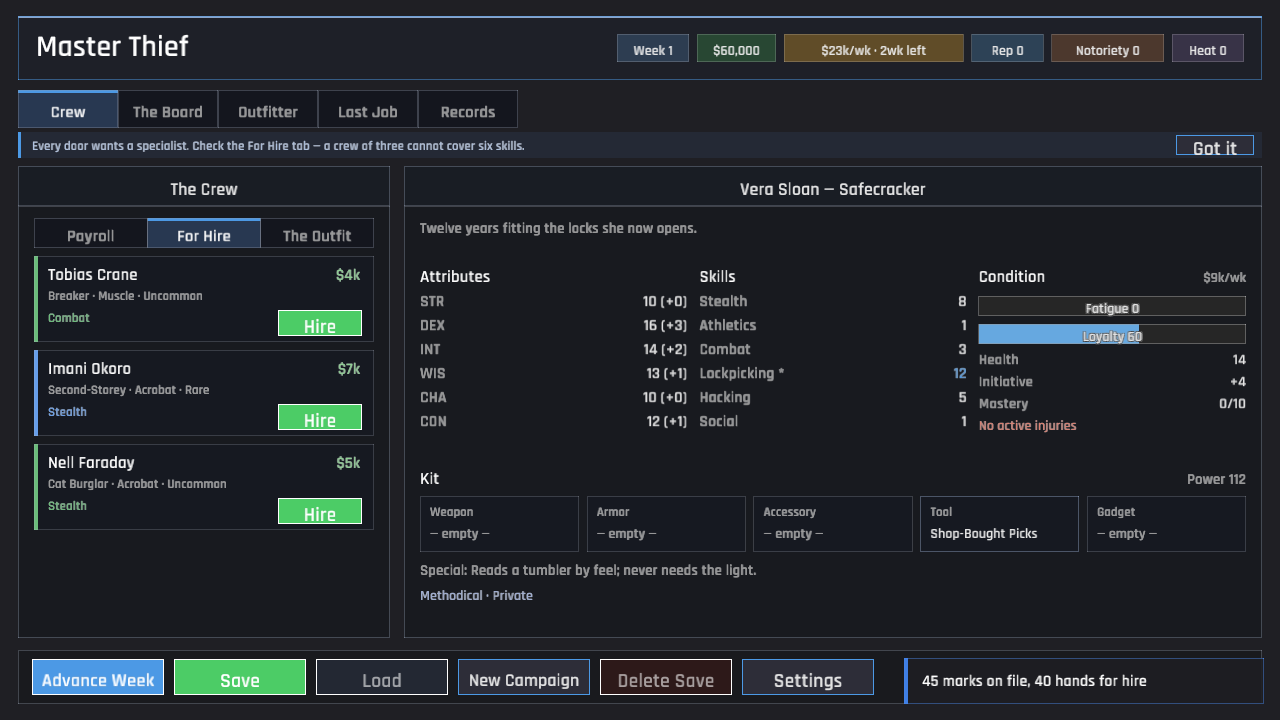
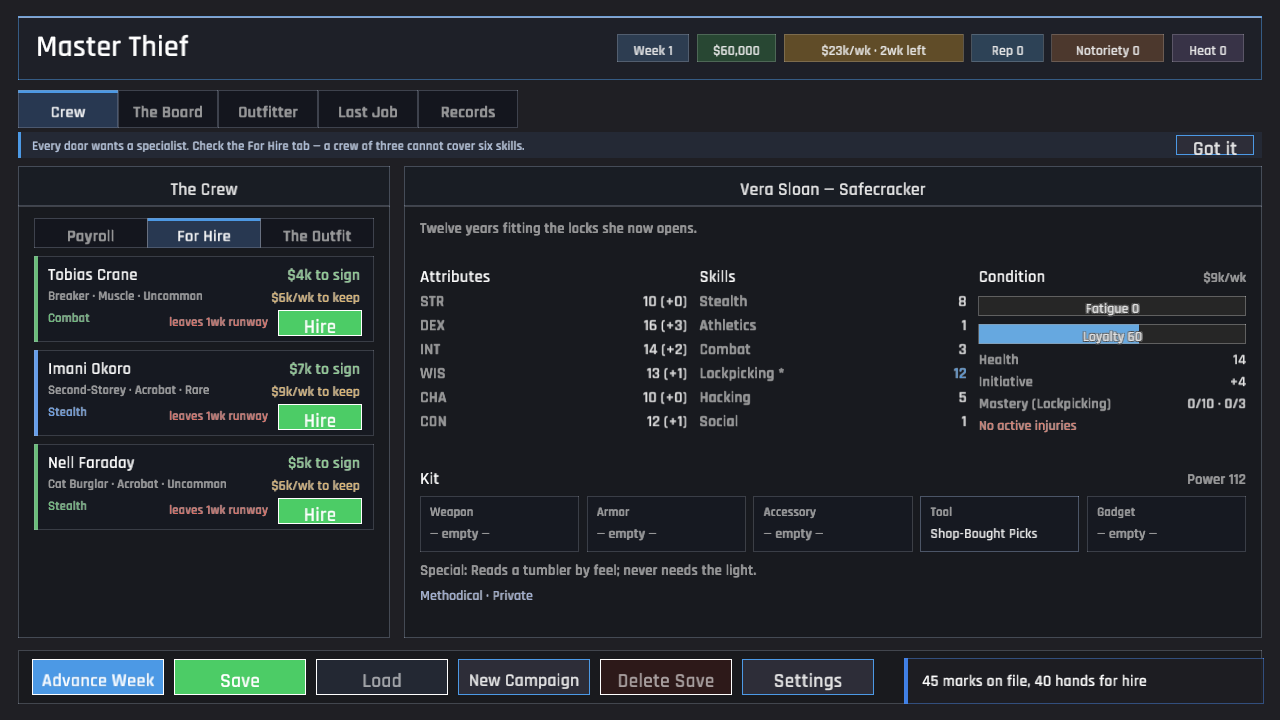
Hiring showed the sticker price and not the bill (GDD 3: what a hand costs to keep)
The hiring screen was written before there was a payroll. It shows `hire_cost`
and nothing else, which was the whole truth at the time and stopped being true
the moment I made crew draw a weekly retainer. A legendary hand signs for
twenty-six thousand and then costs fourteen thousand a week, forever — so the
number the screen displays is the smaller half of the question and the half that
stops mattering around week three.

That is a decision made blind on the screen whose entire job is that decision,
and it is my own doing: every one of the last dozen changes added an ongoing
cost to owning a crew, and none of them went back to the place where you choose
to own one.

Each applicant now carries all three numbers: what they cost to sign, what they
cost to keep, and how many weeks of runway the outfit is left with if it takes
them on — fee out of the purse and retainer onto the bill, coloured red when the
answer is one week or none. The screen no longer stops the player hiring
somebody they cannot afford to keep. It just declines to hide it from them,
which is the same thing the planning screen does with a bad door.

Two notes on the drawing, both caught by looking rather than by tests. The
runway line first landed underneath the Hire button, which owns the row's
bottom-right corner; it sits to the left of it now. And it originally read
"2wk → 1wk", where the arrow rendered as a missing-glyph box — the UI font has
[…]

diff --git a/src/sim/payroll.rs b/src/sim/payroll.rs
@@ -71,6 +71,24 @@ pub fn weeks_of_runway(session: &GameSession, config: &PayrollConfig) -> i64 {
     session.budget.max(0) / due
 }
 
+/// Weeks of runway the outfit would have left if it took this hand on: the
+/// hiring fee comes out of the purse and their retainer joins the bill.
+///
+/// The hiring screen only ever showed the fee, which is the smaller half of the
+/// question and the one that stops mattering after week three. A legendary hand
+/// costs more every week, forever, than they cost to sign.
+pub fn runway_after_hiring(
+    session: &GameSession,
+    config: &PayrollConfig,
+    recruit: &CrewMember,
+) -> i64 {
+    let due = weekly_outgoings(session, config) + retainer_for(recruit, config);
+    if due <= 0 {
+        return i64::MAX;
+    }
+    (session.budget - recruit.hire_cost).max(0) / due
+}
+
 /// What talking one hand round costs.
 pub fn bonus_cost(member: &CrewMember, config: &PayrollConfig) -> i64 {
     retainer_for(member, config) * config.bonus_retainer_weeks.max(1)
@@ -450,6 +468,47 @@ mod tests {
 
         assert!(pay_bonus(&mut session, &data.config, &id).is_err());
         assert_eq!(session.budget, 0);
+    }
+
+    #[test]
+    fn taking_somebody_on_shortens_the_runway_twice_over() {
+        // Once for the fee out of the purse, and again for every week of their
+        // retainer after it. The hiring screen used to show only the first.
+        let (data, mut session) = setup(40);
+        let payroll = &data.config.payroll;
+        let recruit = data
+            .crew_pool
+            .get(session.recruits.first().expect("somebody is asking"))
+            .unwrap();
+        session.budget = 400_000;
+
+        let before = weeks_of_runway(&session, payroll);
+        let after = runway_after_hiring(&session, payroll, recruit);
+        assert!(after < before, "a new hand paid for themselves");
+
+        // And the fee alone does not explain it: the retainer is the larger
+        // half of the cost over any campaign worth playing.
+        let fee_only = (session.budget - recruit.hire_cost) / weekly_outgoings(&session, payroll);
+        assert!(
+            after < fee_only,
+            "the weekly cost of keeping them was not counted"
+        );
+    }
+
+    #[test]
+    fn a_hand_the_outfit_cannot_keep_shows_a_runway_of_nothing() {
+        let (data, mut session) = setup(41);
+        let recruit = data
+            .crew_pool
+            .get(session.recruits.first().unwrap())
+            .unwrap();
+        session.budget = recruit.hire_cost;
+
+        assert_eq!(
+            runway_after_hiring(&session, &data.config.payroll, recruit),
+            0,
+            "signing them emptied the purse and the screen should say so"
+        );
     }
 
     #[test]

diff --git a/src/ui/hiring.rs b/src/ui/hiring.rs
@@ -30,7 +30,7 @@ pub fn draw(ctx: &UiContext<'_>, content: Rect, actions: &mut Vec<UiAction>) {
 
         let affordable = ctx.session.budget >= recruit.hire_cost;
         list_card(rect, false, rarity_color(recruit.rarity), mouse);
-        draw_recruit(rect, recruit, affordable);
+        draw_recruit(ctx, rect, recruit, affordable);
 
         if button_rect_tone_at(
             Rect::new(rect.right() - 96.0, rect.bottom() - 32.0, 84.0, 26.0),
@@ -44,7 +44,7 @@ pub fn draw(ctx: &UiContext<'_>, content: Rect, actions: &mut Vec<UiAction>) {
     }
 }
 
-fn draw_recruit(rect: Rect, recruit: &CrewMember, affordable: bool) {
+fn draw_recruit(ctx: &UiContext<'_>, rect: Rect, recruit: &CrewMember, affordable: bool) {
     draw_ui_text_ex(
         &recruit.name,
         rect.x + 14.0,
@@ -69,7 +69,7 @@ fn draw_recruit(rect: Rect, recruit: &CrewMember, affordable: bool) {
         TextStyle::new(13.0, rarity_color(recruit.rarity)).params(),
     );
     draw_text_right(
-        &format_compact_money(recruit.hire_cost),
+        &format!("{} to sign", format_compact_money(recruit.hire_cost)),
         rect.right() - 14.0,
         rect.y + 24.0,
         TextStyle::new(
@@ -78,6 +78,35 @@ fn draw_recruit(rect: Rect, recruit: &CrewMember, affordable: bool) {
                 Color::new(0.56, 0.82, 0.58, 1.0)
             } else {
                 Color::new(0.86, 0.46, 0.42, 1.0)
+            },
+        ),
+    );
+
+    // The half of the question the screen never asked. Signing them is one
+    // payment; keeping them is every week from here.
+    let payroll = &ctx.data.config.payroll;
+    draw_text_right(
+        &format!(
+            "{}/wk to keep",
+            format_compact_money(crate::sim::retainer_for(recruit, payroll))
+        ),
+        rect.right() - 14.0,
+        rect.y + 46.0,
+        TextStyle::new(14.0, Color::new(0.88, 0.72, 0.44, 1.0)),
+    );
+
+    let after = crate::sim::runway_after_hiring(ctx.session, payroll, recruit);
+    // Left of the Hire button, which owns the bottom-right corner of the row.
+    draw_text_right(
+        &format!("leaves {}wk runway", after.min(99)),
+        rect.right() - 106.0,
+        rect.y + 70.0,
+        TextStyle::new(
+            13.0,
+            match after {
+                0..=1 => Color::new(0.90, 0.42, 0.38, 1.0),
+                2..=4 => Color::new(0.90, 0.66, 0.30, 1.0),
+                _ => dark::TEXT_DIM,
             },
         ),
     );

diff --git a/src/sim.rs b/src/sim.rs
@@ -26,8 +26,8 @@ pub use job::{auto_assign, run_job, DoorOutcome, JobPlan, JobReport};
 pub use kit::{refit, refit_quote, wear_penalty};
 pub use law::{attention_chance, bail_cost, bribe_cost, grease_palms, post_bail, LawEvent};
 pub use payroll::{
-    bonus_cost, crew_cut, crew_cut_for, pay_bonus, retainer_for, safehouse_upkeep,
-    weekly_outgoings, weeks_of_runway, CrewCut,
+    bonus_cost, crew_cut, crew_cut_for, pay_bonus, retainer_for, runway_after_hiring,
+    safehouse_upkeep, weekly_outgoings, weeks_of_runway, CrewCut,
 };
 pub use plan::{candidates, Candidate, PlanDraft};
 pub use rivals::{interest_in as rival_interest, RivalJob};
